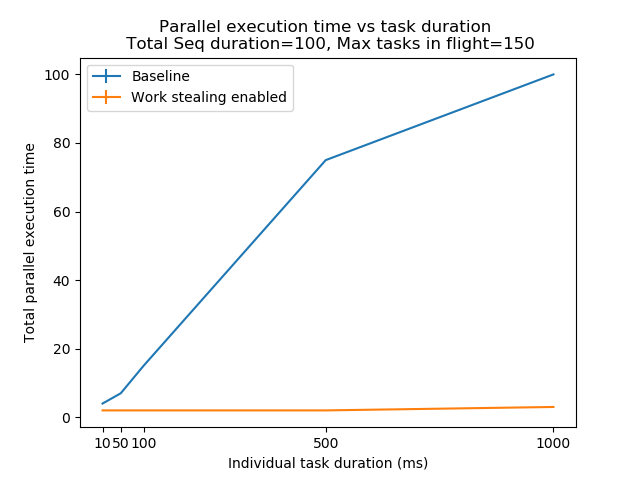
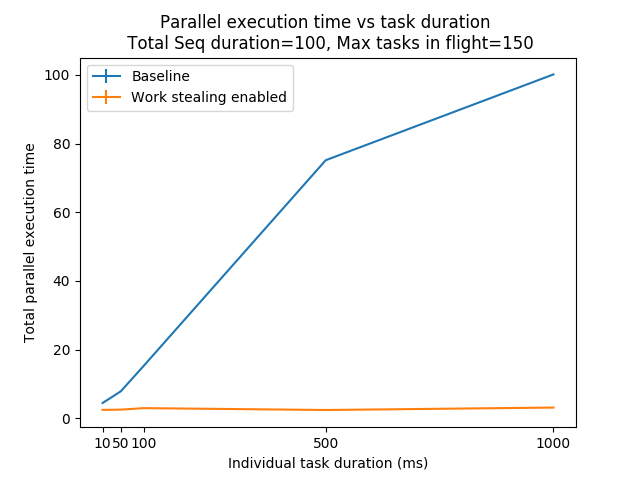
found and fixed bug in plotting script; updated plots with correct code

diff --git a/plot_results.py b/plot_results.py
@@ -43,7 +43,7 @@ if __name__ == "__main__":
 	print("Task duration values: ", task_duration_vals)
 	print("Data folder path: ", data_folder)
 
-	# Define x axis to be the list of individual task durations
+	# Define x axis to be the list of sequential durations
 	X = np.array(task_duration_vals).astype(int)
 	
 	# For each value in the max tasks in flight, open corresponding file (for WS=0 or WS=1), create y axis by computing average and std (based on ntrials), then plot
@@ -89,10 +89,6 @@ if __name__ == "__main__":
 				#print(temp)
 				Y1[x,0] = np.mean(temp)
 				Y1[x,1] = np.std(temp)
-
-		Y0 = Y0.astype(int)
-		Y1 = Y1.astype(int)
-
 
 		plt.figure()
 		plt.errorbar(X, Y0[:,0], yerr=Y0[:,1])
